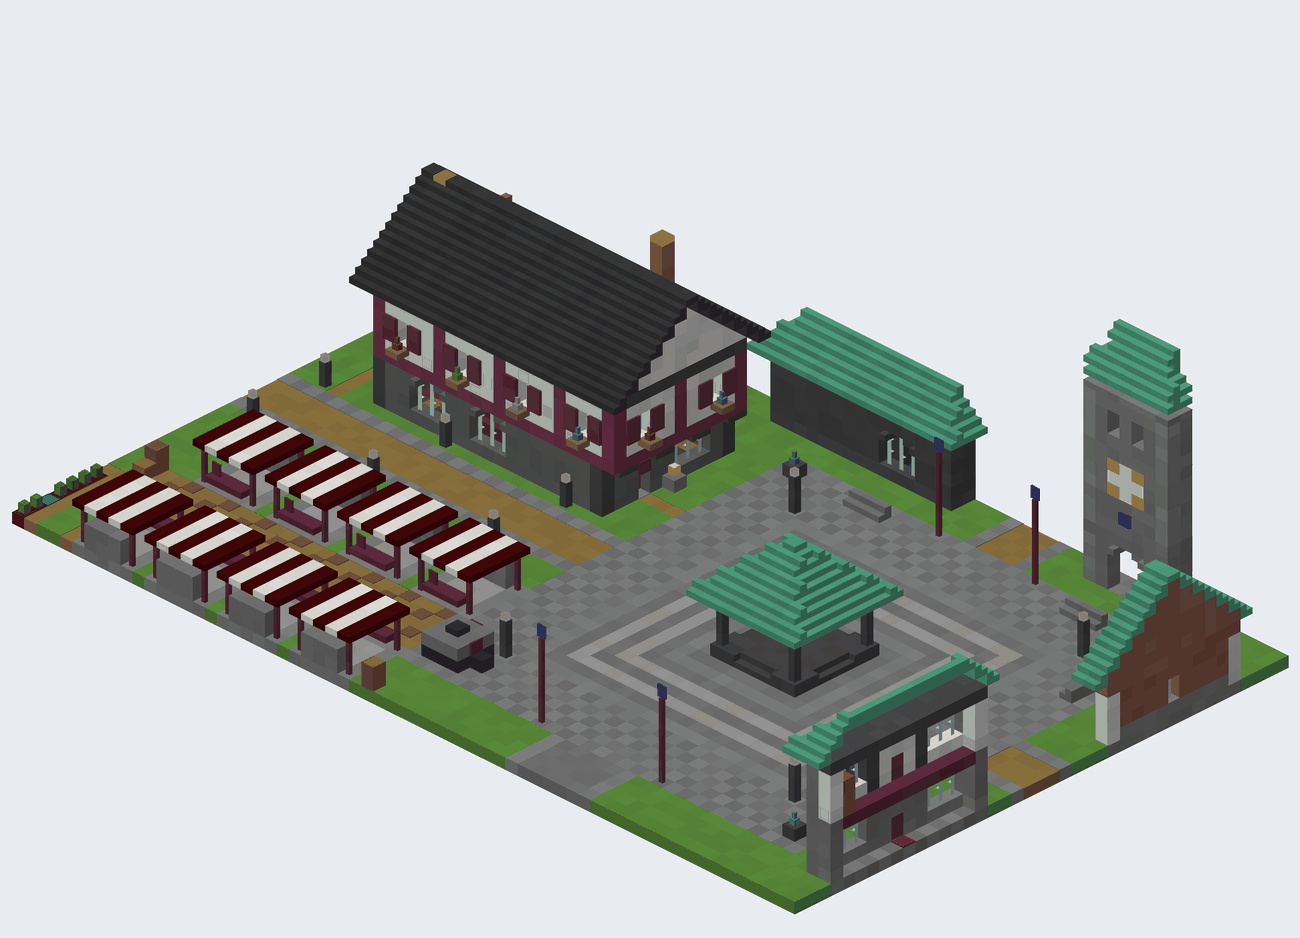
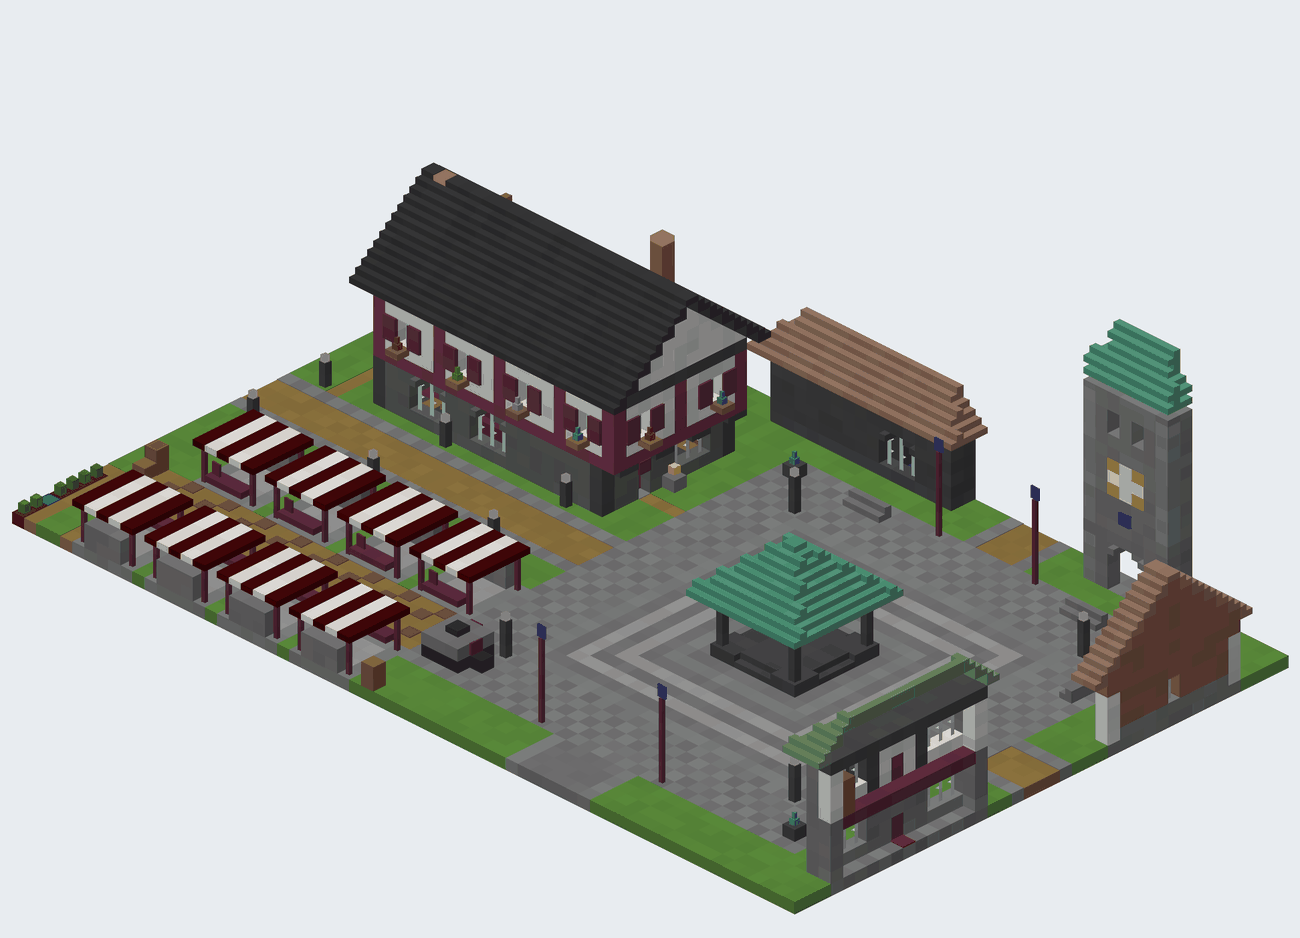
look.py: waxed copper in its own colour (the prefix was cut one letter too far); diagnosis images redrawn and the copper-roof point withdrawn
Claude-Session: https://claude.ai/code/session_01XFkUTbcHDcx8Dngs99vaBD

diff --git a/tools/gen/look.py b/tools/gen/look.py
@@ -54,7 +54,7 @@ def props_of(state):
 
 def _candidates(n):
     """Texture file names to try for a block, most specific first."""
-    base = n[7:] if n.startswith("waxed_") else n
+    base = n[6:] if n.startswith("waxed_") else n
     out = [base + "_top", base]
     for suf in SUFFIXES:
         if base.endswith(suf):

diff --git a/docs/design/DIAGNOSIS.md b/docs/design/DIAGNOSIS.md
@@ -25,9 +25,10 @@ This is a diagnosis and a proposal. The taste is the owner's: section 3 lists wh
 3. **The wall is a 450-block ruler.** One profile, one material mix, no buttress, no intermediate tower, no change of
    height between the corners; from outside it is a grey band. The gatehouse towers are two blank deepslate cubes
    (`diagnosis/05_spawn_gatehouse.png`).
-4. **Roofs are single planes of a single block.** Eight roofs are one flat sheet of oxidized copper, the rest one sheet
-   of brick, mud brick or deepslate: no ridge, no dormer, no eaves line, few chimneys. Seen from the wall walk and from
-   the roads coming in, the roofs are most of what there is to see.
+4. **Roofs are single planes of a single block.** The materials are well chosen and varied (weathered and exposed
+   copper, brick, mud brick, deepslate tile), but every roof is one unbroken sheet of one block: no ridge, no eaves
+   line, no dormer, few chimneys. Seen from the wall walk and from the roads coming in, the roofs are most of what
+   there is to see.
 5. **The plaza reads as paving, not as a place.** Good centre (dais, canopy, bell); around it, 33 x 33 of chequered
    stone with four benches and four lamp posts (`diagnosis/04_spawn_plaza.png`).
 6. **What is around the town.** The eight roadside huts are the same flat-roofed cube with a different awning colour
@@ -101,9 +102,9 @@ Only new chunks and new towns change: nothing here rewrites what a world already
    leaf burns). The only fireproof "tree" is a built one (crimson or warped stems with wart blocks). Proposal: no fake
    trees; hedges of mossy stone walls, potted plants and vines of stone, and real trees only outside the wall, where the
    grounds already plant cherries.
-3. **The copper roofs.** Eight oxidized-copper roofs make the town read green-on-green. Proposal: keep copper for the
-   landmarks (towers, clock tower, canopy, chapel) and give the ordinary buildings tile (brick, mud brick, deepslate)
-   with copper only as ridge and gutter.
+3. *(withdrawn)* An earlier draft asked whether to cut down the "eight oxidized copper roofs". That came from a colour
+   bug in the first renders (every waxed copper drew as oxidized); the town's roofs are already a varied palette and
+   their materials stay as they are.
 4. **How far villages may change shape.** Asymmetric houses inside today's footprints are safe. Styles with a building
    type of their own (4.) change what an existing style looks like in new chunks: yes or no.
 5. **Wear.** How ruined should things look? Proposal: lived-in, not abandoned: moss and cracks low on walls and near
